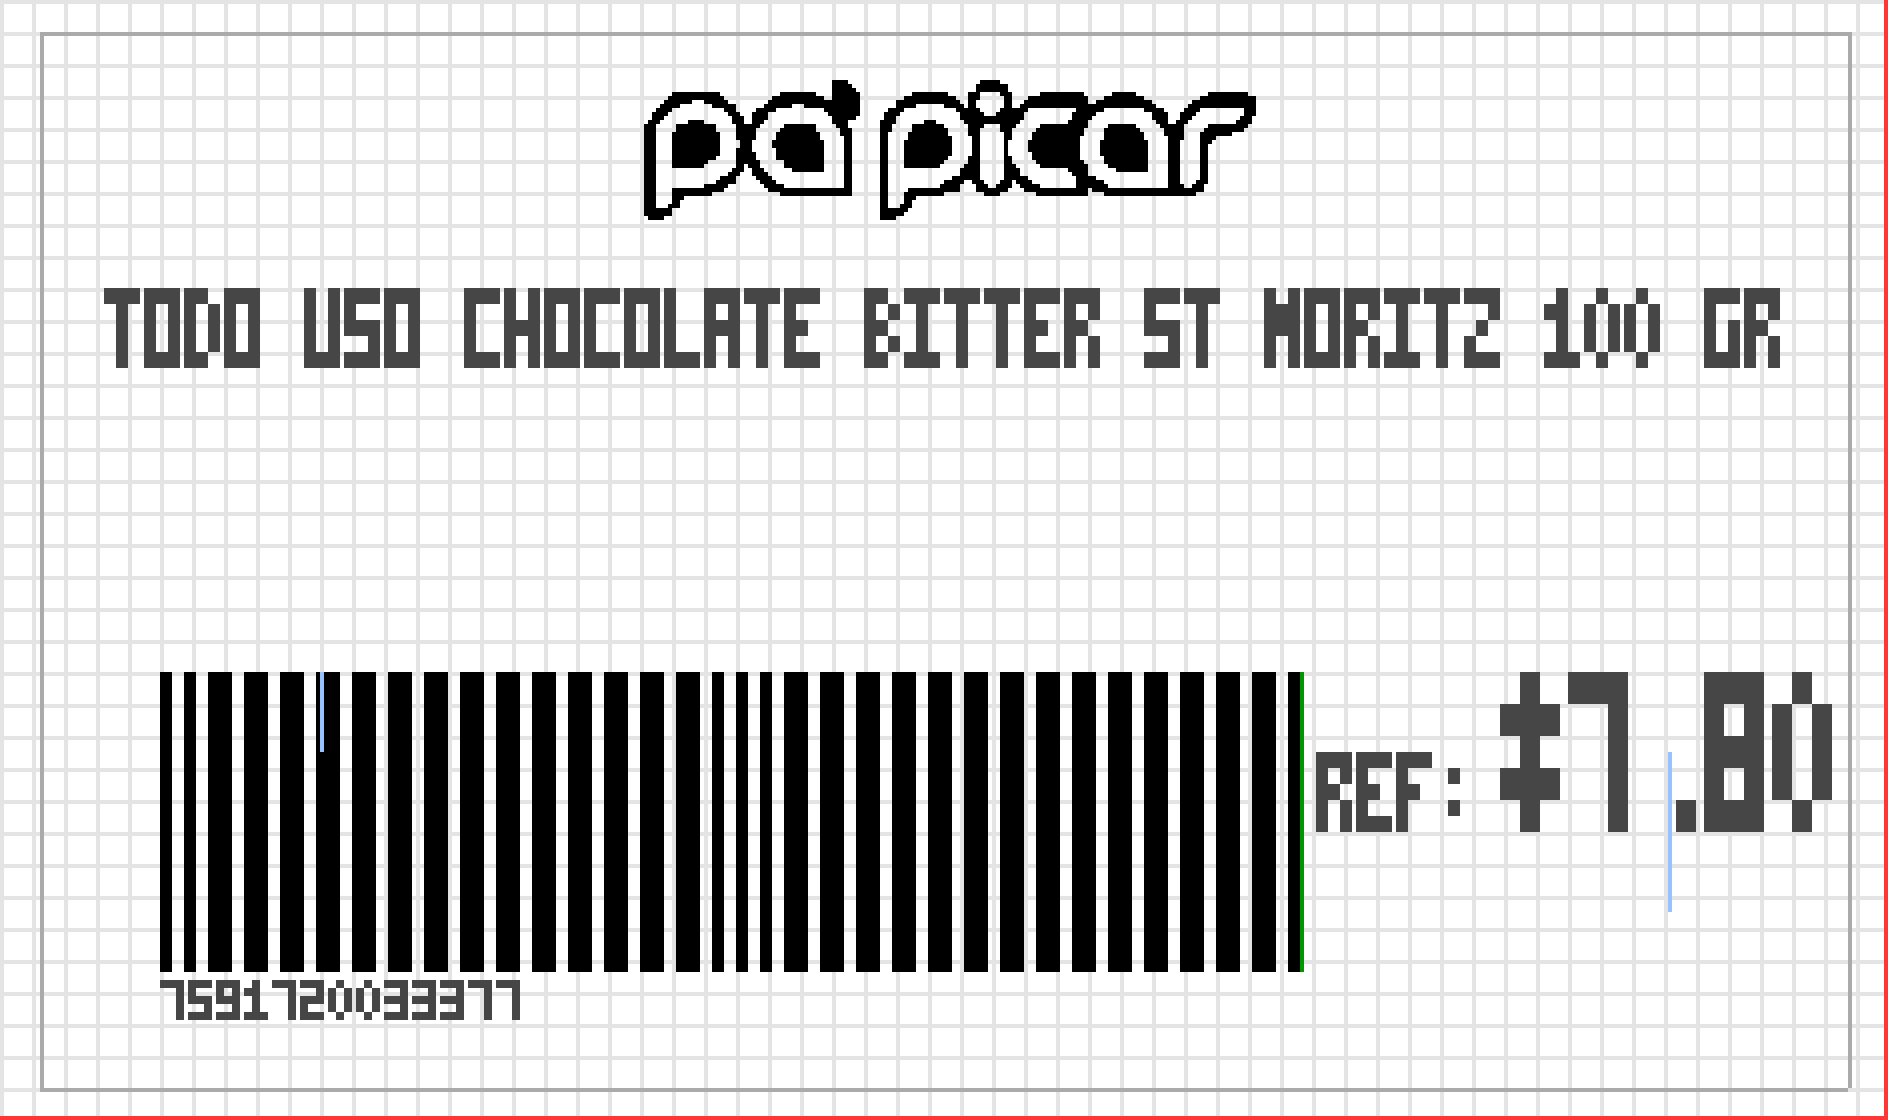
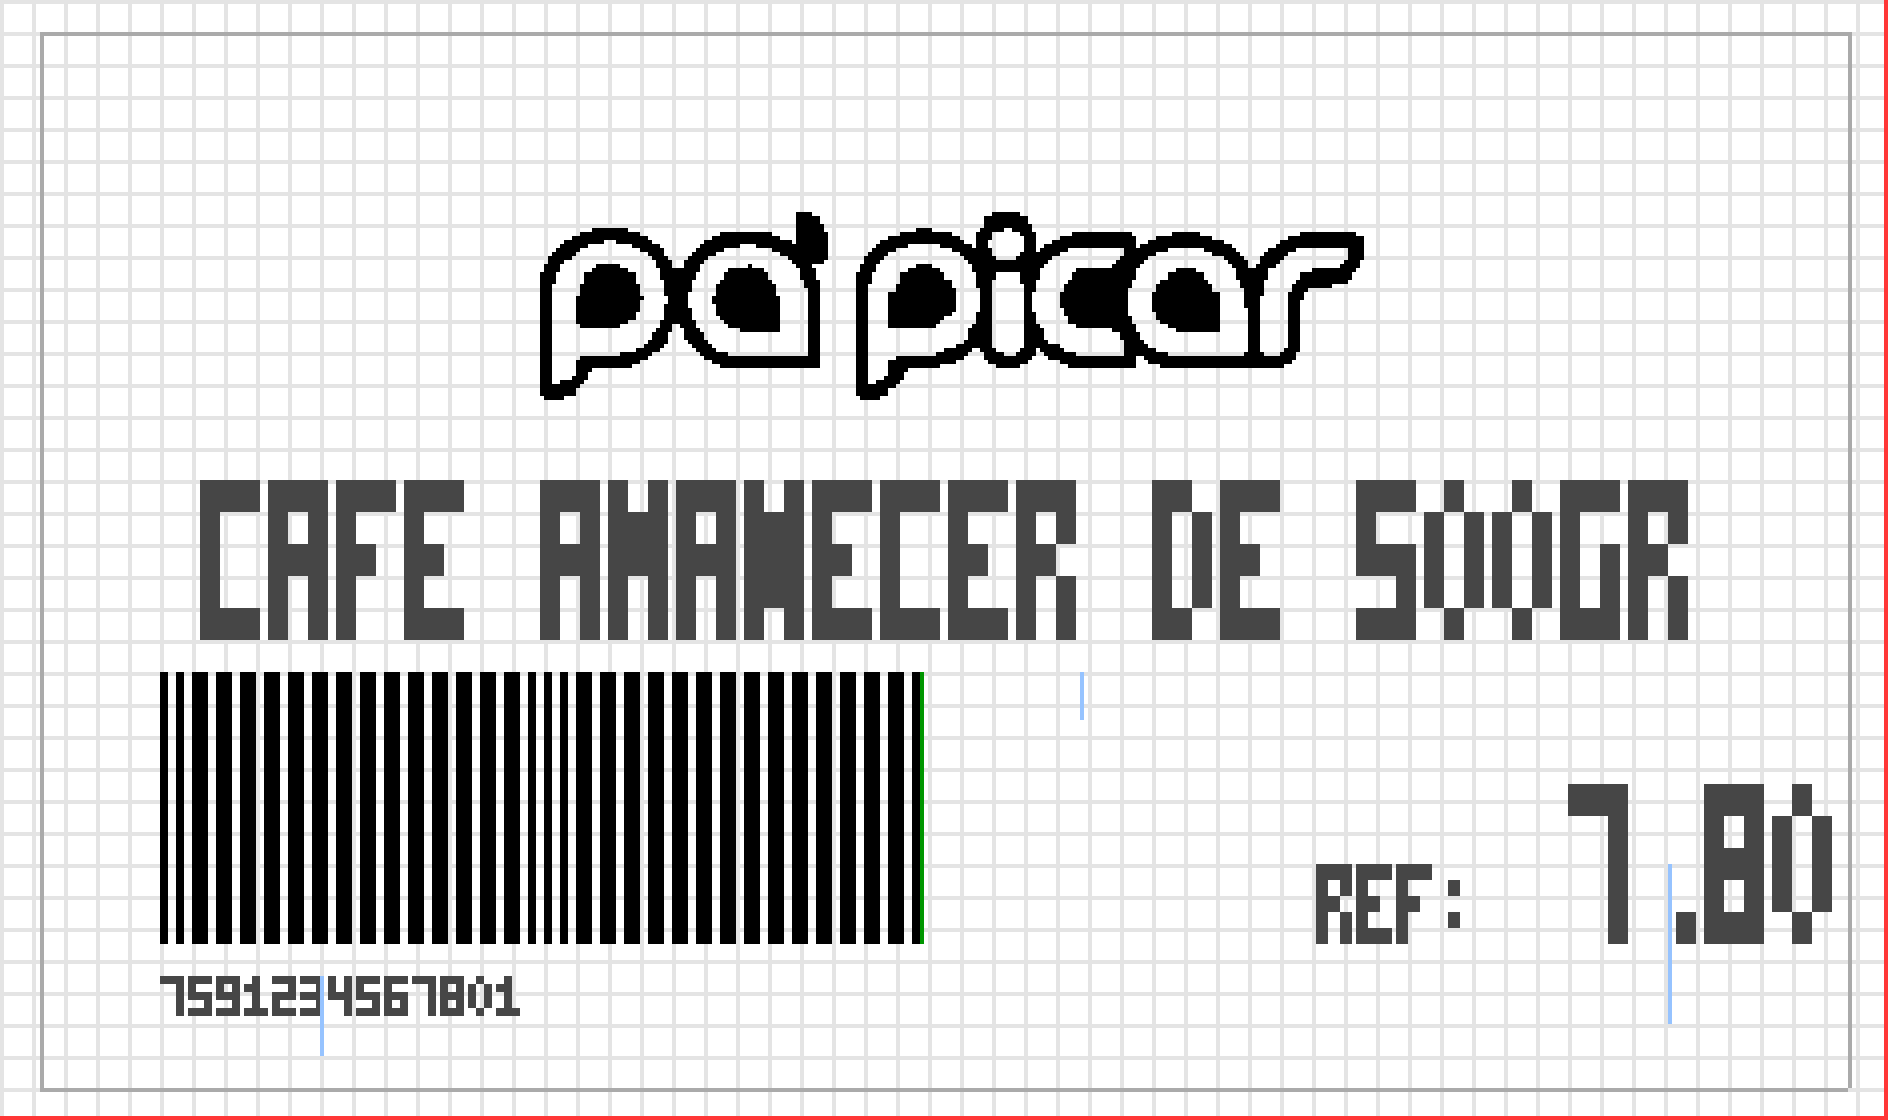
fix(labels): saca el $ del precio y alinea precio/REF al fondo del codigo

Changed region(s): [[0.0625, 0.4062, 0.9688, 0.9375], [0.0312, 0.0625, 0.9688, 0.375]]

diff --git a/label-printer-web/src/lib/labels/label.template.ts b/label-printer-web/src/lib/labels/label.template.ts
@@ -315,18 +315,21 @@ export const BARCODE_HEIGHT_MM = 8.5;
 export const BARCODE_TEXT_X_MM = 5;
 export const BARCODE_TEXT_Y_MM = 30.5;
 
-// Precio y REF: columna derecha, alineados con la zona media/baja del codigo (21..32 mm) y
-// con el pie en 28,75 mm. Los decimales son exactos a 8 dots/mm: 371 = 46,375 mm, 329 =
-// 41,125 mm. El precio acaba en 459 dots (57,375 mm), 2 dots dentro del interior del marco,
-// y el REF queda a la izquierda del precio, cerca, como salio en la prueba fisica.
+// Precio y REF: columna derecha, con el PIE alineado con la zona INFERIOR del codigo. Las
+// barras van de 21 a 29,5 mm, asi que el pie de los dos cae en 29,5 mm: el precio arranca a
+// 24,5 mm (tope de 5 mm de alto) y el REF a 27 mm (2,5 mm). Antes el pie quedaba en 28,75 mm,
+// 0,75 mm por encima del fondo del codigo. Los decimales son exactos a 8 dots/mm: 371 =
+// 46,375 mm, 329 = 41,125 mm. El precio acaba en 459 dots (57,375 mm), 2 dots dentro del
+// interior del marco, y el REF queda a la izquierda del precio, cerca, como salio en la
+// prueba fisica.
 export const PRICE_X_MM = 46.375;
-export const PRICE_Y_MM = 23.75;
+export const PRICE_Y_MM = 24.5;
 const PRICE_W_MM = 11;
 export const PRICE_MAX_H_MM = 5;
 export const PRICE_MIN_H_MM = 2.25;
 
 export const REFERENCE_X_MM = 41.125;
-export const REFERENCE_Y_MM = 26.25;
+export const REFERENCE_Y_MM = 27;
 const REF_W_MM = 5;
 const REF_H_MM = 2.5;
 
@@ -396,8 +399,8 @@ const LOGO_V1_8_GF = "gf" in LOGO_V1_8 ? LOGO_V1_8.gf : LOGO_GF;
 //   y  30,5..32  "390000099999", los numeros human-readable COMO TEXTO PROPIO, 12 dots
 //                (el bloque entero del codigo acaba en 32 mm, 2 mm por encima del
 //                interior del marco de 34 mm y 3 mm del borde del papel)
-//   y  23,75..28,75  precio, hasta 5 mm de alto, columna derecha (zona media/baja del codigo)
-//   y  26,25..28,75  "REF:", 2,5 mm, al pie del numero (misma linea de base)
+//   y  24,5..29,5  precio, hasta 5 mm de alto, columna derecha (pie sobre el fondo del codigo)
+//   y  27..29,5    "REF:", 2,5 mm, al pie del numero (misma linea de base)
 //   y  34        borde interior
 //
 // El logo y el nombre NO se tocan ni aunque el nombre crezca: el logo acaba en 14 mm y el
@@ -575,13 +578,13 @@ export const DEFAULT_TEMPLATE: LabelTemplate = {
       maxLines: 1,
       justify: "L",
     },
-    // 6. Precio y referencia, columna DERECHA, alineados con la zona media/baja del codigo.
+    // 6. Precio y referencia, columna DERECHA, con el pie alineado al FONDO del codigo.
     //
     //    "REF:" a 20 dots y el numero a 40, con la PIE de la palabra a la altura de la del
-    //    numero: el precio acaba en 230 y el REF tambien (26,25 + 2,5 = 28,75 mm), que es la
-    //    misma linea de base. Asi se leen como "REF: 3.00" y no como dos textos sueltos, y
-    //    quedan en la zona media/baja del codigo como salio en la prueba fisica (las barras
-    //    van de 19 a 28 mm y esto cubre de 23,75 a 28,75).
+    //    numero: el precio acaba en 236 y el REF tambien (27 + 2,5 = 29,5 mm), que es el
+    //    mismo fondo que el codigo (21 + 8,5 = 29,5 mm). Asi se leen como "REF: 5.00" y no
+    //    como dos textos sueltos, y su pie coincide con el de las barras en vez de quedar
+    //    0,75 mm por encima como antes.
     //
     //    Los dos con `justify: "R"` y acabando en 459 (el margen derecho, con 2 dots de aire
     //    al interior del marco). Un precio de "1234.56" ocupa 7 caracteres y uno de "3.00"
@@ -608,7 +611,7 @@ export const DEFAULT_TEMPLATE: LabelTemplate = {
       //     ahi la quiet zone derecha (20 dots) deja el sitio libre hasta 250. Con x en 316
       //     la palabra se metia debajo de ellas: `"REF:" pisa a "barras"`, que es
       //     cierto.
-      //   - El 371 (46,375 mm) es porque el precio necesita 85 dots para "$3.00" a 17 de
+      //   - El 371 (46,375 mm) es porque el precio necesita 68 dots para "5.00" a 17 de
       //     celda, y con la caja en 363 el texto se dibujaba desde 374 y las cajas se tocaban.
       maxWidthDots: dotsFromMm(REF_W_MM),
       maxLines: 1,
@@ -617,16 +620,16 @@ export const DEFAULT_TEMPLATE: LabelTemplate = {
     {
       kind: "text",
       x: dotsFromMm(PRICE_X_MM),
-      // 23,75 mm: la zona media/baja de las barras (19..28), no arriba como antes. Con el
-      // logo grande, el precio subido a 21 mm quedaba visualmente colgado entre el nombre y el
-      // codigo; en la prueba fisica salio mas abajo, en la zona del codigo.
+      // 24,5 mm: el pie de la columna derecha cae en 29,5 mm, el fondo del codigo (21 + 8,5).
+      // Antes arrancaba a 23,75 y el pie quedaba 0,75 mm por encima de las barras. Con
+      // `autoFit` el bloque solo baja del tope cuando el precio es largo, asi que la
+      // alineacion se cumple a la altura maxima (5 mm), que es el caso normal.
       y: dotsFromMm(PRICE_Y_MM),
       format: "^A0N,40,17",
       source: "price",
-      // El "$" va aqui y no dentro de `LabelData` porque es una decision de la plantilla, no
-      // del producto. La plantilla de 50 x 25 mm tambien lo llevaba y asi sigue en el
-      // mostrador: quitarlo seria un cambio de aspecto que nadie ha pedido.
-      prefix: "$",
+      // SIN "$": el simbolo de moneda no va en la etiqueta. Lo pedia la spec ("no incluir $
+      // si el formato configurado no lo requiere") y se decidio no dejarlo configurable: el
+      // precio sale pelado, "5.00". `LabelData` solo lleva el numero.
       // 88 y no 96: la caja acaba en 459 (57,375 mm), dos dots por dentro del interior del
       // marco (461), y a 363 se solapaba con la de "REF:".
       maxWidthDots: dotsFromMm(PRICE_W_MM),
@@ -703,7 +706,7 @@ export const DEFAULT_TEMPLATE: LabelTemplate = {
       y: dotsFromMm(SIN_PRECIO_Y_MM),
       format: "^A0N,52,22",
       source: "price",
-      prefix: "$",
+      // SIN "$", igual que en la etiqueta con codigo: el precio sale pelado, "5.00".
       maxWidthDots: ANCHO_DOTS - MARGEN_IZQ_DOTS - MARGEN_DER_DOTS,
       maxLines: 1,
       justify: "C",

diff --git a/label-printer-web/scripts/check-layout-v18.ts b/label-printer-web/scripts/check-layout-v18.ts
@@ -441,7 +441,7 @@ seccion("La justificacion del ^FB: lo que dice la plantilla, lo que se dibuja");
 
   const precio = zona("price") as TZ;
   const rp = renderLabel(T, datos({ price: 3 }));
-  const cp = rp.cajas.find((c) => c.etiqueta === "texto" && c.texto === "$3.00");
+  const cp = rp.cajas.find((c) => c.etiqueta === "texto" && c.texto === "3.00");
   ok("el precio se dibuja", cp !== undefined);
   if (cp) {
     ok(

diff --git a/label-printer-web/scripts/check-zonas.ts b/label-printer-web/scripts/check-zonas.ts
@@ -185,7 +185,7 @@ const NOMBRES = [
  */
 const LARGO_POR_FUENTE: Record<string, number> = {
   productName: 0, // se rellena con el nombre que se esta probando
-  price: 8, // "$1234.56", el precio mas largo que se ha visto en el catalogo, con el signo
+  price: 7, // "1234.56", el precio mas largo que se ha visto en el catalogo, sin signo
   reference: 12,
   referenceLabel: 4, // "REF:"
   barcodeData: 13,
